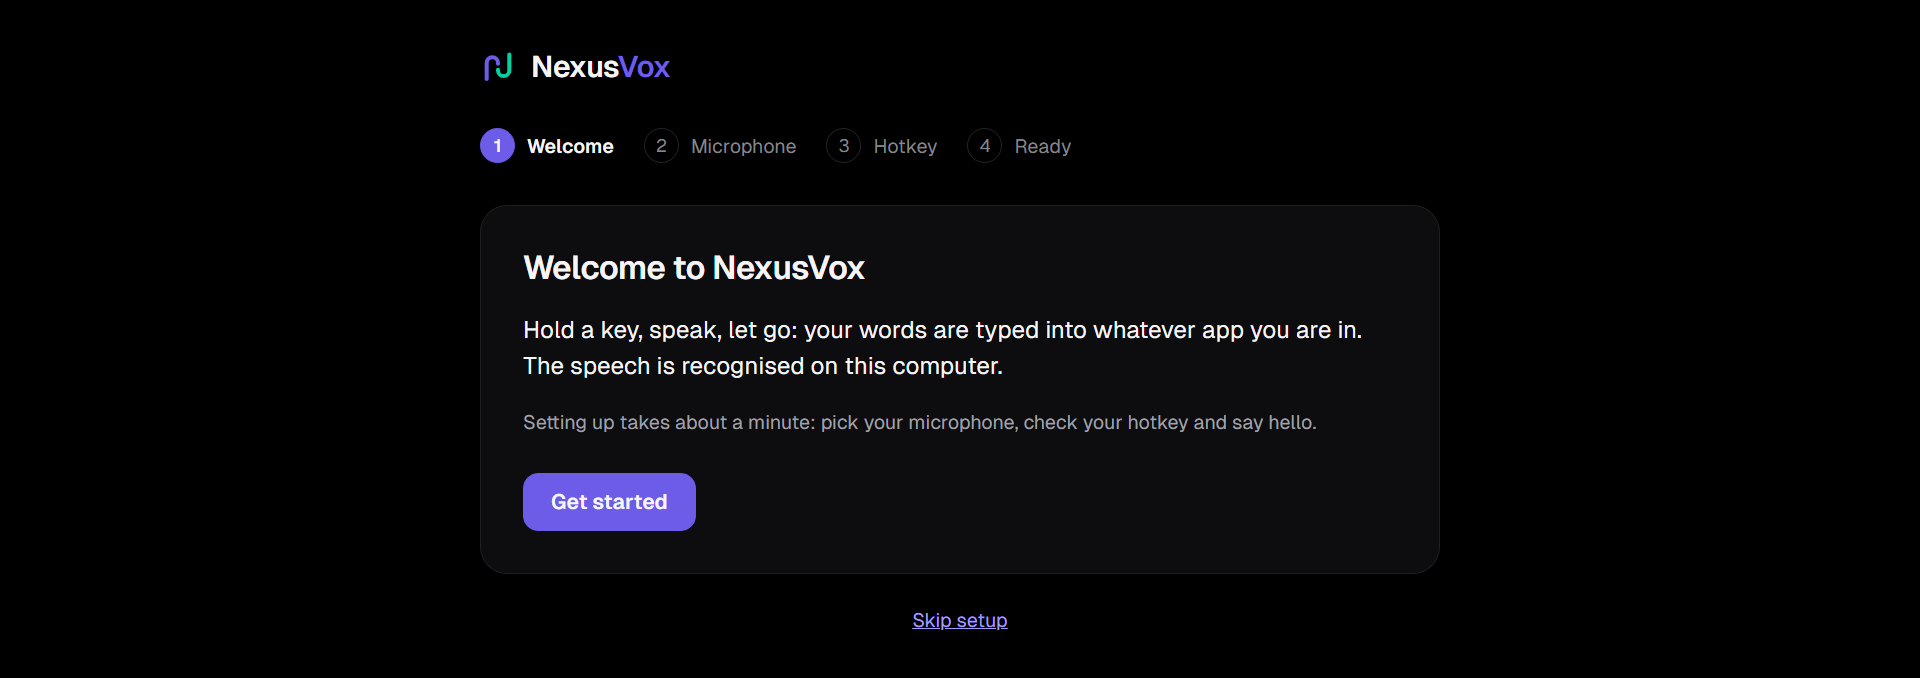
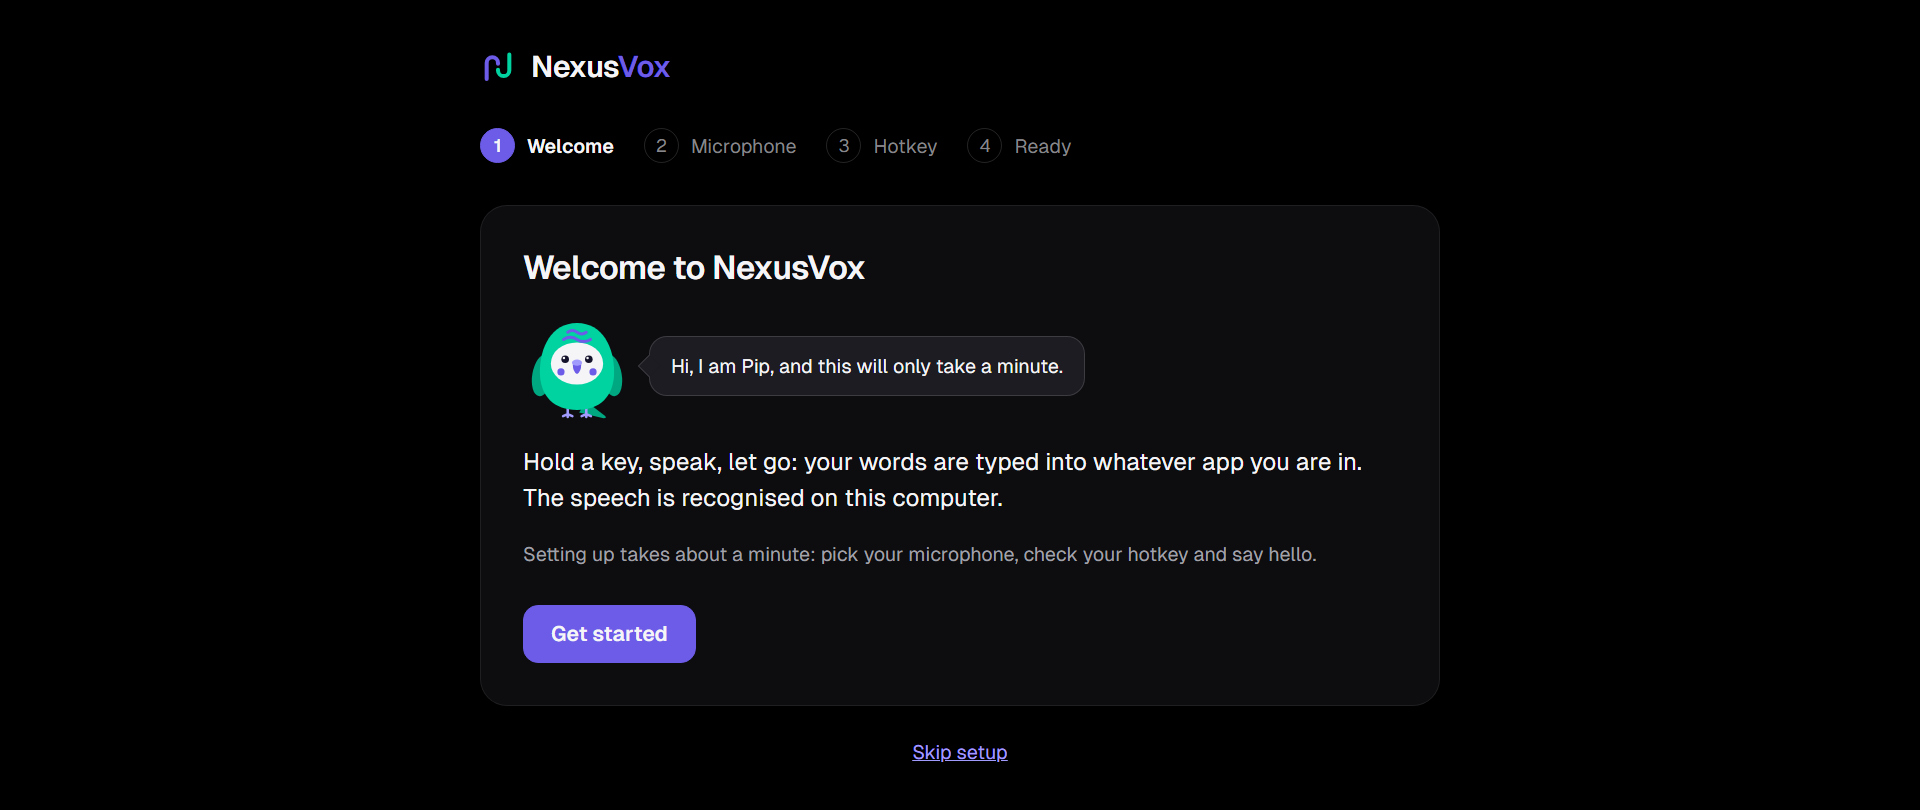
Show Pip in the first-run setup and the empty Recordings list
Closes #383

Pip now guides the first-run setup with one short sentence beside each
step and sleeps in the empty Recordings list with a hint on how to add a
first recording. Both go through mountPip, so with Show Pip off the hosts
stay empty and hidden and the setup and list look as before. The empty
list is only redrawn when its message changes, so Pip's motion is not
restarted by the pending poll. The setup screenshots are refreshed and
pip_poses.py also photographs the empty list.

diff --git a/src/nexusvox/dashboard/static/index.html b/src/nexusvox/dashboard/static/index.html
@@ -1239,6 +1239,7 @@
 
       <section class="setup-panel" data-step="0" aria-labelledby="setup-h-0">
         <h3 class="setup-heading" id="setup-h-0" tabindex="-1">Welcome to NexusVox</h3>
+        <div class="setup-pip" data-pip-pose="idle" data-pip-line="Hi, I am Pip, and this will only take a minute." hidden></div>
         <p class="setup-lead">Hold a key, speak, let go: your words are typed into whatever app you are in. The speech is recognised on this computer.</p>
         <p class="setup-text">Setting up takes about a minute: pick your microphone, check your hotkey and say hello.</p>
         <div class="setup-actions">
@@ -1248,6 +1249,7 @@
 
       <section class="setup-panel" data-step="1" aria-labelledby="setup-h-1" hidden>
         <h3 class="setup-heading" id="setup-h-1" tabindex="-1">Choose your microphone</h3>
+        <div class="setup-pip" data-pip-pose="tilt" data-pip-line="Say a few words and watch the bar move." hidden></div>
         <p class="setup-text">Pick the microphone you dictate with, then say something: the bar should move.</p>
         <label class="setup-field">
           <span class="setup-label">Microphone</span>
@@ -1265,6 +1267,7 @@
 
       <section class="setup-panel" data-step="2" aria-labelledby="setup-h-2" hidden>
         <h3 class="setup-heading" id="setup-h-2" tabindex="-1">Your hotkey</h3>
+        <div class="setup-pip" data-pip-pose="idle" data-pip-line="Pick a key you can reach without looking." hidden></div>
         <div class="setup-hotkey">
           <span class="keycaps" id="setup-hotkey-keycaps" aria-label="Your dictation hotkey"></span>
           <button type="button" class="period-btn" id="setup-hotkey-record">Use other keys</button>
@@ -1305,6 +1308,7 @@
 
       <section class="setup-panel" data-step="3" aria-labelledby="setup-h-3" hidden>
         <h3 class="setup-heading" id="setup-h-3" tabindex="-1">You are ready</h3>
+        <div class="setup-pip" data-pip-pose="idle" data-pip-line="You are set, so go ahead and speak." hidden></div>
         <dl class="setup-summary">
           <dt>Microphone</dt><dd id="setup-sum-mic"></dd>
           <dt>Hotkey</dt><dd><span class="keycaps" id="setup-sum-keycaps"></span></dd>

diff --git a/src/nexusvox/dashboard/static/dashboard-recordings.js b/src/nexusvox/dashboard/static/dashboard-recordings.js
@@ -269,6 +269,9 @@ function shownRecordings() {
   return recItems.filter((item) => matchesRecordingSearch(item, query));
 }
 
+// What Pip says over an empty list; it is only a hint, so it names no recording content.
+const REC_EMPTY_PIP_LINE = "Record a meeting or upload an audio file from Home, and it shows up here.";
+
 function recordingRowHtml(item) {
   return `<button type="button" class="rec-row" data-id="${item.id}" data-kind="${item.kind === "meeting" ? "meeting" : "upload"}">
       <span class="rec-row-icon" aria-hidden="true"></span>
@@ -288,9 +291,19 @@ function renderRecordingList() {
   const focusedId = active && recList.contains(active) && active.dataset ? active.dataset.id : undefined;
   const message = !recItems.length ? "No recordings yet." : !shown.length ? "Nothing matches your search." : "";
   if (message) {
+    // The list redraws on every poll; an empty list that is already drawn stays, so Pip's breathing is not restarted.
+    if (recList.dataset.empty === message) return;
+    recList.dataset.empty = message;
     recList.innerHTML = `<li class="empty-state">${message}</li>`;
+    if (!recItems.length) {
+      const host = document.createElement("div");
+      host.className = "rec-empty-pip";
+      recList.firstElementChild.append(host);
+      mountPip(host, { pose: "sleeping", size: 72, bubble: REC_EMPTY_PIP_LINE });
+    }
     return;
   }
+  delete recList.dataset.empty;
   const existing = new Map([...recList.children].filter((li) => li.dataset.id).map((li) => [li.dataset.id, li]));
   const rows = shown.map((item) => {
     const id = String(item.id);

diff --git a/src/nexusvox/dashboard/static/dashboard-setup.js b/src/nexusvox/dashboard/static/dashboard-setup.js
@@ -26,6 +26,12 @@ const SETUP_QUIET_LEVEL = 0.05;
 const SETUP_QUIET_HINT_MS = 6000;
 const SETUP_FEEDBACK_NAMES = { visual: "Visual", sound: "Audio", both: "Visual and audio" };
 
+// Pip sits beside each step with one short sentence (data-pip-line on the host). The hosts stay empty and hidden while
+// Show Pip is off, so the setup then looks as it did before he came.
+for (const host of setupEl.querySelectorAll(".setup-pip")) {
+  mountPip(host, { pose: host.dataset.pipPose, size: 72, bubble: host.dataset.pipLine });
+}
+
 let setupStep = 0;
 let setupMeterTimer = null;
 let setupMeterRun = 0; // changes on every start and stop, so a reply from an earlier run is dropped

diff --git a/src/nexusvox/dashboard/static/recordings.css b/src/nexusvox/dashboard/static/recordings.css
@@ -185,6 +185,9 @@ main:has(#tab-recordings.active) { max-width: none; padding-top: 24px; padding-b
 /* ── List rows ────────────────────────────────────────────────────── */
 .rec-list { list-style: none; display: flex; flex-direction: column; gap: 2px; }
 .rec-list .empty-state { padding: 24px 8px; font-size: 14px; }
+.rec-empty-pip { margin-top: 16px; }
+.rec-empty-pip[hidden] { display: none; }
+.rec-empty-pip .pip { justify-content: center; text-align: left; }
 .rec-row {
   width: 100%;
   display: flex;

diff --git a/src/nexusvox/dashboard/static/setup.css b/src/nexusvox/dashboard/static/setup.css
@@ -54,6 +54,7 @@
 .setup-panel[hidden] { display: none; }
 .setup-heading { margin: 0; font-size: 22px; font-weight: 600; letter-spacing: -0.02em; }
 .setup-heading:focus { outline: none; }
+.setup-pip[hidden] { display: none; }
 .setup-lead { margin: 0; font-size: 16px; line-height: 1.5; }
 .setup-text { margin: 0; font-size: 13px; line-height: 1.5; color: var(--text-dim); }
 .setup-panel .status-line { margin-top: 0; font-size: 13px; }

diff --git a/scripts/pip_poses.py b/scripts/pip_poses.py
@@ -3,9 +3,10 @@
     python scripts/pip_poses.py [--out docs/images/pip-poses.png] [--browser PATH] [--scale 2]
 
 A throwaway page loads `style.css` and `dashboard-pip.js` from the dashboard's static folder and mounts Pip once
-per pose (idle, blink, head tilt, sleeping) plus once with a speech bubble. The bubble text is invented sample
-data, counts only. Nothing here touches your config, your database or the network, and the browser is headless:
-no window opens. The idle motion is switched off for the picture, so two runs give the same image.
+per pose (idle, blink, head tilt, sleeping) plus once with a speech bubble. It also writes the empty Recordings list
+with Pip sleeping to `pip-empty-recordings.png`. The bubble text is invented sample data, counts only.
+Nothing here touches your config, your database or the network, and the browser is headless: no window opens.
+The idle motion is switched off for the picture, so two runs give the same image.
 """
 
 from __future__ import annotations
@@ -22,6 +23,7 @@ from dashboard_screenshots import _find_browser, _photograph  # noqa: E402  (the
 
 STATIC = _SCRIPTS.parent / "src" / "nexusvox" / "dashboard" / "static"
 DEFAULT_OUT = _SCRIPTS.parent / "docs" / "images" / "pip-poses.png"
+EMPTY_OUT = _SCRIPTS.parent / "docs" / "images" / "pip-empty-recordings.png"
 HEIGHT = 250
 
 POSES = (("idle", "Idle"), ("blink", "Blink"), ("tilt", "Head tilt"), ("sleeping", "Sleeping"))
@@ -79,6 +81,57 @@ def build_page(directory: Path) -> Path:
     return page
 
 
+EMPTY_PAGE = """<!doctype html>
+<html lang="en"><head><meta charset="utf-8">
+<link rel="stylesheet" href="{style}"><link rel="stylesheet" href="{recordings}">
+<style>.pip-art, .pip-eyes-open, .pip-eyes-closed, .pip-sleeping .pip-art {{ animation: none !important; }}
+  body {{ display: block; padding: 28px; }} .rec-list {{ width: 340px; background: var(--surface);
+  border: 1px solid var(--border); border-radius: var(--radius); padding: 12px; }}</style></head>
+<body><ul class="rec-list" id="rec-list"></ul>
+<script src="{script}"></script>
+<script>
+  const recList = document.getElementById("rec-list");
+  recList.innerHTML = '<li class="empty-state">No recordings yet.</li>';
+  const host = document.createElement("div");
+  host.className = "rec-empty-pip";
+  recList.firstElementChild.append(host);
+  mountPip(host, {{ pose: "sleeping", size: 72, bubble: {bubble} }});
+</script></body></html>
+"""
+
+
+def empty_recordings_page(directory: Path) -> Path:
+    """The empty Recordings list as the dashboard draws it: the same markup, style sheets and Pip component."""
+    import json
+
+    text = (STATIC / "dashboard-recordings.js").read_text(encoding="utf-8")
+    line = text.split('REC_EMPTY_PIP_LINE = "', 1)[1].split('"', 1)[0]
+    page = directory / "pip-empty-recordings.html"
+    page.write_text(
+        EMPTY_PAGE.format(
+            style=(STATIC / "style.css").as_uri(),
+            recordings=(STATIC / "recordings.css").as_uri(),
+            script=(STATIC / "dashboard-pip.js").as_uri(),
+            bubble=json.dumps(line),
+        ),
+        encoding="utf-8",
+    )
+    return page
+
+
+def run_empty(out: Path, browser: str | None, scale: float) -> Path:
+    browser_path = _find_browser(browser)
+    out = out.resolve()
+    out.parent.mkdir(parents=True, exist_ok=True)
+    with tempfile.TemporaryDirectory(prefix="nexusvox-pip-", ignore_cleanup_errors=True) as tmp:
+        work = Path(tmp)
+        target = work / out.name
+        _photograph(browser_path, empty_recordings_page(work).as_uri(), target, work / "browser-profile", scale, 230)
+        out.write_bytes(target.read_bytes())
+    print(f"wrote {out}")
+    return out
+
+
 def run(out: Path, browser: str | None, scale: float) -> Path:
     browser_path = _find_browser(browser)
     out = out.resolve()
@@ -100,6 +153,7 @@ def main(argv: list[str] | None = None) -> int:
     parser.add_argument("--scale", type=float, default=2.0, help="device pixel ratio of the image (default: 2)")
     args = parser.parse_args(argv)
     run(args.out, args.browser, args.scale)
+    run_empty(EMPTY_OUT, args.browser, args.scale)
     return 0
 
 

diff --git a/tests/test_pip.py b/tests/test_pip.py
@@ -231,3 +231,65 @@ def test_idle_motion_is_a_two_pixel_bob_and_a_blink_that_stop_for_reduced_motion
     # Only idle and sleeping move; the still poses carry no animation.
     animated = re.findall(r"^\.(pip-[a-z]+) [^{]*\{[^}]*animation:", CSS, re.M)
     assert set(animated) <= {"pip-idle", "pip-sleeping"}
+
+
+# ── Setup and empty states ───────────────────────────────────────────
+
+SETUP_JS = (STATIC / "dashboard-setup.js").read_text(encoding="utf-8")
+RECORDINGS_JS = (STATIC / "dashboard-recordings.js").read_text(encoding="utf-8")
+
+
+def _setup_hosts():
+    return re.findall(r'<div class="setup-pip" data-pip-pose="(\w+)" data-pip-line="([^"]+)" hidden></div>', HTML)
+
+
+def test_every_setup_step_has_a_pip_host_with_one_short_sentence():
+    panels = re.findall(r'<section class="setup-panel".*?</section>', HTML, re.S)
+    assert len(panels) == 4
+    assert all(panel.count('class="setup-pip"') == 1 for panel in panels)
+    hosts = _setup_hosts()
+    assert len(hosts) == 4
+    for pose, line in hosts:
+        assert pose in {"idle", "tilt", "sleeping"}
+        assert len(line) <= 60 and line.count(". ") == 0 and line.endswith((".", "?", "!"))
+        assert "Pro" not in line  # Pip never advertises
+    # The steps themselves are untouched: heading, then Pip, then the step's own content.
+    assert re.search(
+        r'setup-heading" id="setup-h-1" tabindex="-1">Choose your microphone</h3>\s*<div class="setup-pip"', HTML
+    )
+
+
+def test_the_setup_mounts_its_hosts_through_mountpip_and_they_start_hidden():
+    assert "mountPip(host" in SETUP_JS and "data-pip-line" not in SETUP_JS.split("mountPip(host")[0].split("\n")[-1]
+    assert "host.dataset.pipLine" in SETUP_JS
+    assert "innerHTML" not in SETUP_JS.split("mountPip(host")[1].split("}")[0]  # text only, never markup
+    assert re.search(
+        r"\.setup-pip\[hidden\]\s*\{\s*display:\s*none", (STATIC / "setup.css").read_text(encoding="utf-8")
+    )
+
+
+def test_the_empty_recordings_list_shows_pip_sleeping_with_one_line_and_keeps_its_text():
+    assert 'recList.innerHTML = `<li class="empty-state">${message}</li>`' in RECORDINGS_JS  # the text as before
+    assert 'mountPip(host, { pose: "sleeping"' in RECORDINGS_JS
+    line = re.search(r'REC_EMPTY_PIP_LINE = "([^"]+)"', RECORDINGS_JS).group(1)
+    assert line.count(". ") == 0 and len(line) <= 90
+    # Pip only appears for an empty library, not for a search without a match.
+    assert "if (!recItems.length) {" in RECORDINGS_JS.split("mountPip(host")[0].split("recList.innerHTML")[1]
+
+
+@needs_node
+def test_with_show_pip_off_the_setup_and_the_empty_list_hosts_stay_empty_and_hidden():
+    got = run_js(
+        "setShowPip(false);"
+        "const setup = new El('div'); setup.hidden = true;"
+        "mountPip(setup, { pose: 'tilt', size: 72, bubble: 'Say a few words and watch the bar move.' });"
+        "const empty = new El('div');"
+        "mountPip(empty, { pose: 'sleeping', size: 72, bubble: 'Record a meeting or upload an audio file.' });"
+        "const off = [setup, empty].map((h) => [h.hidden, h.children.length]);"
+        "setShowPip(true);"
+        "const on = [setup, empty].map((h) => [h.hidden, h.children.length,"
+        "  all(h).some((e) => e.className === 'pip pip-sleeping')]);"
+        "console.log(JSON.stringify({ off, on }));"
+    )
+    assert got["off"] == [[True, 0], [True, 0]]
+    assert got["on"] == [[False, 1, False], [False, 1, True]]

diff --git a/docs/internals/dashboard.md b/docs/internals/dashboard.md
@@ -27,7 +27,7 @@ Aurora Precision theme, shared with the website. Tokens are the `:root` variable
 
 ## Tabs
 
-**Pip (the mascot)** - `dashboard-pip.js`, loaded right after the core. Pip is the round mint budgie of the brand, drawn as one inline SVG (`pipSvg(pose)`) with four poses: `idle`, `blink` (eyes shut), `tilt` (head turned, eyes wide) and `sleeping` (eyes shut, a small *z*). A tab never writes his markup: it calls `mountPip(host, { pose, size, bubble })`, which fills `host` with `createPip(options)`. `size` is clamped to 64-96 px (default 80); `bubble` is the speech-bubble slot, text (inserted as a text node, so never parsed as markup) or a Node, and empty means no bubble. The bubble is styled (`.pip-bubble`), what it says is up to the tab that mounts him; it only ever shows counts, never dictated or transcribed text. The Show Pip setting (`[general].show_pip`, default on, `POST /api/settings/show-pip`, `show_pip` in `GET /api/settings`, a switch in Settings > Advanced) is `setShowPip(on)`: `loadSettings` and the switch call it, and it redraws every mounted host (connected or not yet inserted; the list holds weak references, `unmountPip` removes one), so off leaves them empty and hidden (`createPip` returns null) and no figure or bubble appears anywhere; on fills them again. Mounting before the setting is known shows him, the default. Colours are tokens in `style.css` (`--green`, `--pip-mint-dark`, `--pip-ink`, `--accent`, `--accent-light`, `--text`), no hex in the script. Idle motion is CSS only: a 4 s breathing bob of 2 px, a blink every 5 s, and a slower bob for `sleeping`; `prefers-reduced-motion: reduce` stops all of it. `scripts/pip_poses.py` photographs every pose from the real component and style sheet (`docs/SCREENSHOTS.md`). Tested in `tests/test_pip.py`.
+**Pip (the mascot)** - `dashboard-pip.js`, loaded right after the core. Pip is the round mint budgie of the brand, drawn as one inline SVG (`pipSvg(pose)`) with four poses: `idle`, `blink` (eyes shut), `tilt` (head turned, eyes wide) and `sleeping` (eyes shut, a small *z*). A tab never writes his markup: it calls `mountPip(host, { pose, size, bubble })`, which fills `host` with `createPip(options)`. `size` is clamped to 64-96 px (default 80); `bubble` is the speech-bubble slot, text (inserted as a text node, so never parsed as markup) or a Node, and empty means no bubble. The bubble is styled (`.pip-bubble`), what it says is up to the tab that mounts him; it only ever shows counts, never dictated or transcribed text. The Show Pip setting (`[general].show_pip`, default on, `POST /api/settings/show-pip`, `show_pip` in `GET /api/settings`, a switch in Settings > Advanced) is `setShowPip(on)`: `loadSettings` and the switch call it, and it redraws every mounted host (connected or not yet inserted; the list holds weak references, `unmountPip` removes one), so off leaves them empty and hidden (`createPip` returns null) and no figure or bubble appears anywhere; on fills them again. Mounting before the setting is known shows him, the default. Colours are tokens in `style.css` (`--green`, `--pip-mint-dark`, `--pip-ink`, `--accent`, `--accent-light`, `--text`), no hex in the script. Idle motion is CSS only: a 4 s breathing bob of 2 px, a blink every 5 s, and a slower bob for `sleeping`; `prefers-reduced-motion: reduce` stops all of it. Pip is placed in two spots so far: beside each first-run setup step (a `.setup-pip` host in `index.html` with `data-pip-pose` and one `data-pip-line` sentence, mounted by `dashboard-setup.js`) and, sleeping, in the empty Recordings list (`REC_EMPTY_PIP_LINE`; only an empty library, not a search without a match). With Show Pip off both hosts stay empty and hidden, so the setup and the list read as before. `scripts/pip_poses.py` photographs every pose from the real component and style sheet (`docs/SCREENSHOTS.md`). Tested in `tests/test_pip.py`.
 
 **Back and Forward** - the browser's history walks the pages the user visited (mouse buttons 4 and 5, Alt+Left/Right, the arrows; the browser tab the tray opens and an app window behave alike, as both keep the session history). Every step goes through `pushPage(hash)` (`dashboard-core.js`): a sidebar tab, a Settings page, an Analytics view, `goToTab`, the Meetings link into Settings, and a recording opened from elsewhere (`#recordings/<id>`, `showRecording`). The same page twice adds no entry (`samePage` compares `pageOfHash`: no hash is `#home`, a bare `#settings` is its first page, `#analytics/overview` is `#analytics`). `pushState` fires no event, so Back and Forward run `restoreTabFromHash` through `hashchange`; it opens the tab and the Settings page (a bare `#settings` shows the first page, not the one left open). `#recordings/<id>` goes through `restoreRecording` instead, which leaves the tab opening to `showRecording(id, { restore: true, current })` (one lookup, not two): coming back to the recording already chosen keeps its tab and passage, and a lookup that ends after the user moved to another entry changes nothing (`current` compares the address). A recording that is gone or an id with a malformed escape leaves `#recordings`. A hash that only corrects itself (an alias, a tab that is off) goes through `replaceHash`, which keeps the entry's marker; choosing another recording in the list rewrites `#recordings/<id>` to the new id in the same entry (no second entry), so a reload does not jump back. A reload keeps the entries and the page. Back on the first page would leave the dashboard, so on the first plain click or key press `guardHistory` turns that entry into a marker (`state.nv = "start"`) and adds a copy of it; it waits until the page start has settled the address (`markHistoryReady`), so both carry the URL the user sees, and a mouse Back button or Alt+Left does not arm it. The `popstate` handler in `dashboard-init.js` steps forward again when Back lands on the marker (the entries are added after a gesture, which browsers require for Back to stop on them). Tests: `tests/test_dashboard_history_js.py`.
 

diff --git a/docs/SCREENSHOTS.md b/docs/SCREENSHOTS.md
@@ -33,7 +33,7 @@ The setup is an overlay that opens while `[general].setup_done` is false, so tho
 setup due; the script tells the page which step to show (`SETUP_SCRIPT`), fills the test box on the hotkey step and
 replaces the microphone list and level with demo values (the real audio devices are never probed).
 
-`scripts/pip_poses.py` is a separate, smaller script for Pip, the dashboard mascot: `python scripts/pip_poses.py` writes `docs/images/pip-poses.png`, one headless photograph of the real `dashboard-pip.js` and `style.css` with Pip in each pose (idle, blink, head tilt, sleeping) and once with a speech bubble. It builds a throwaway page in a temporary folder with invented sample text, opens no window, reads no config or database and switches the idle motion off so two runs match. It reuses the browser lookup and launch of `dashboard_screenshots.py`.
+`scripts/pip_poses.py` is a separate, smaller script for Pip, the dashboard mascot: `python scripts/pip_poses.py` writes `docs/images/pip-poses.png`, one headless photograph of the real `dashboard-pip.js` and `style.css` with Pip in each pose (idle, blink, head tilt, sleeping) and once with a speech bubble, and `docs/images/pip-empty-recordings.png`, the empty Recordings list with Pip sleeping. It builds a throwaway page in a temporary folder with invented sample text, opens no window, reads no config or database and switches the idle motion off so two runs match. It reuses the browser lookup and launch of `dashboard_screenshots.py`.
 
 The Recordings tab fills one window with its two panes and is photographed at a window's height. The
 script serves its own copy of the page with the elements after the last card to show hidden when a tab
